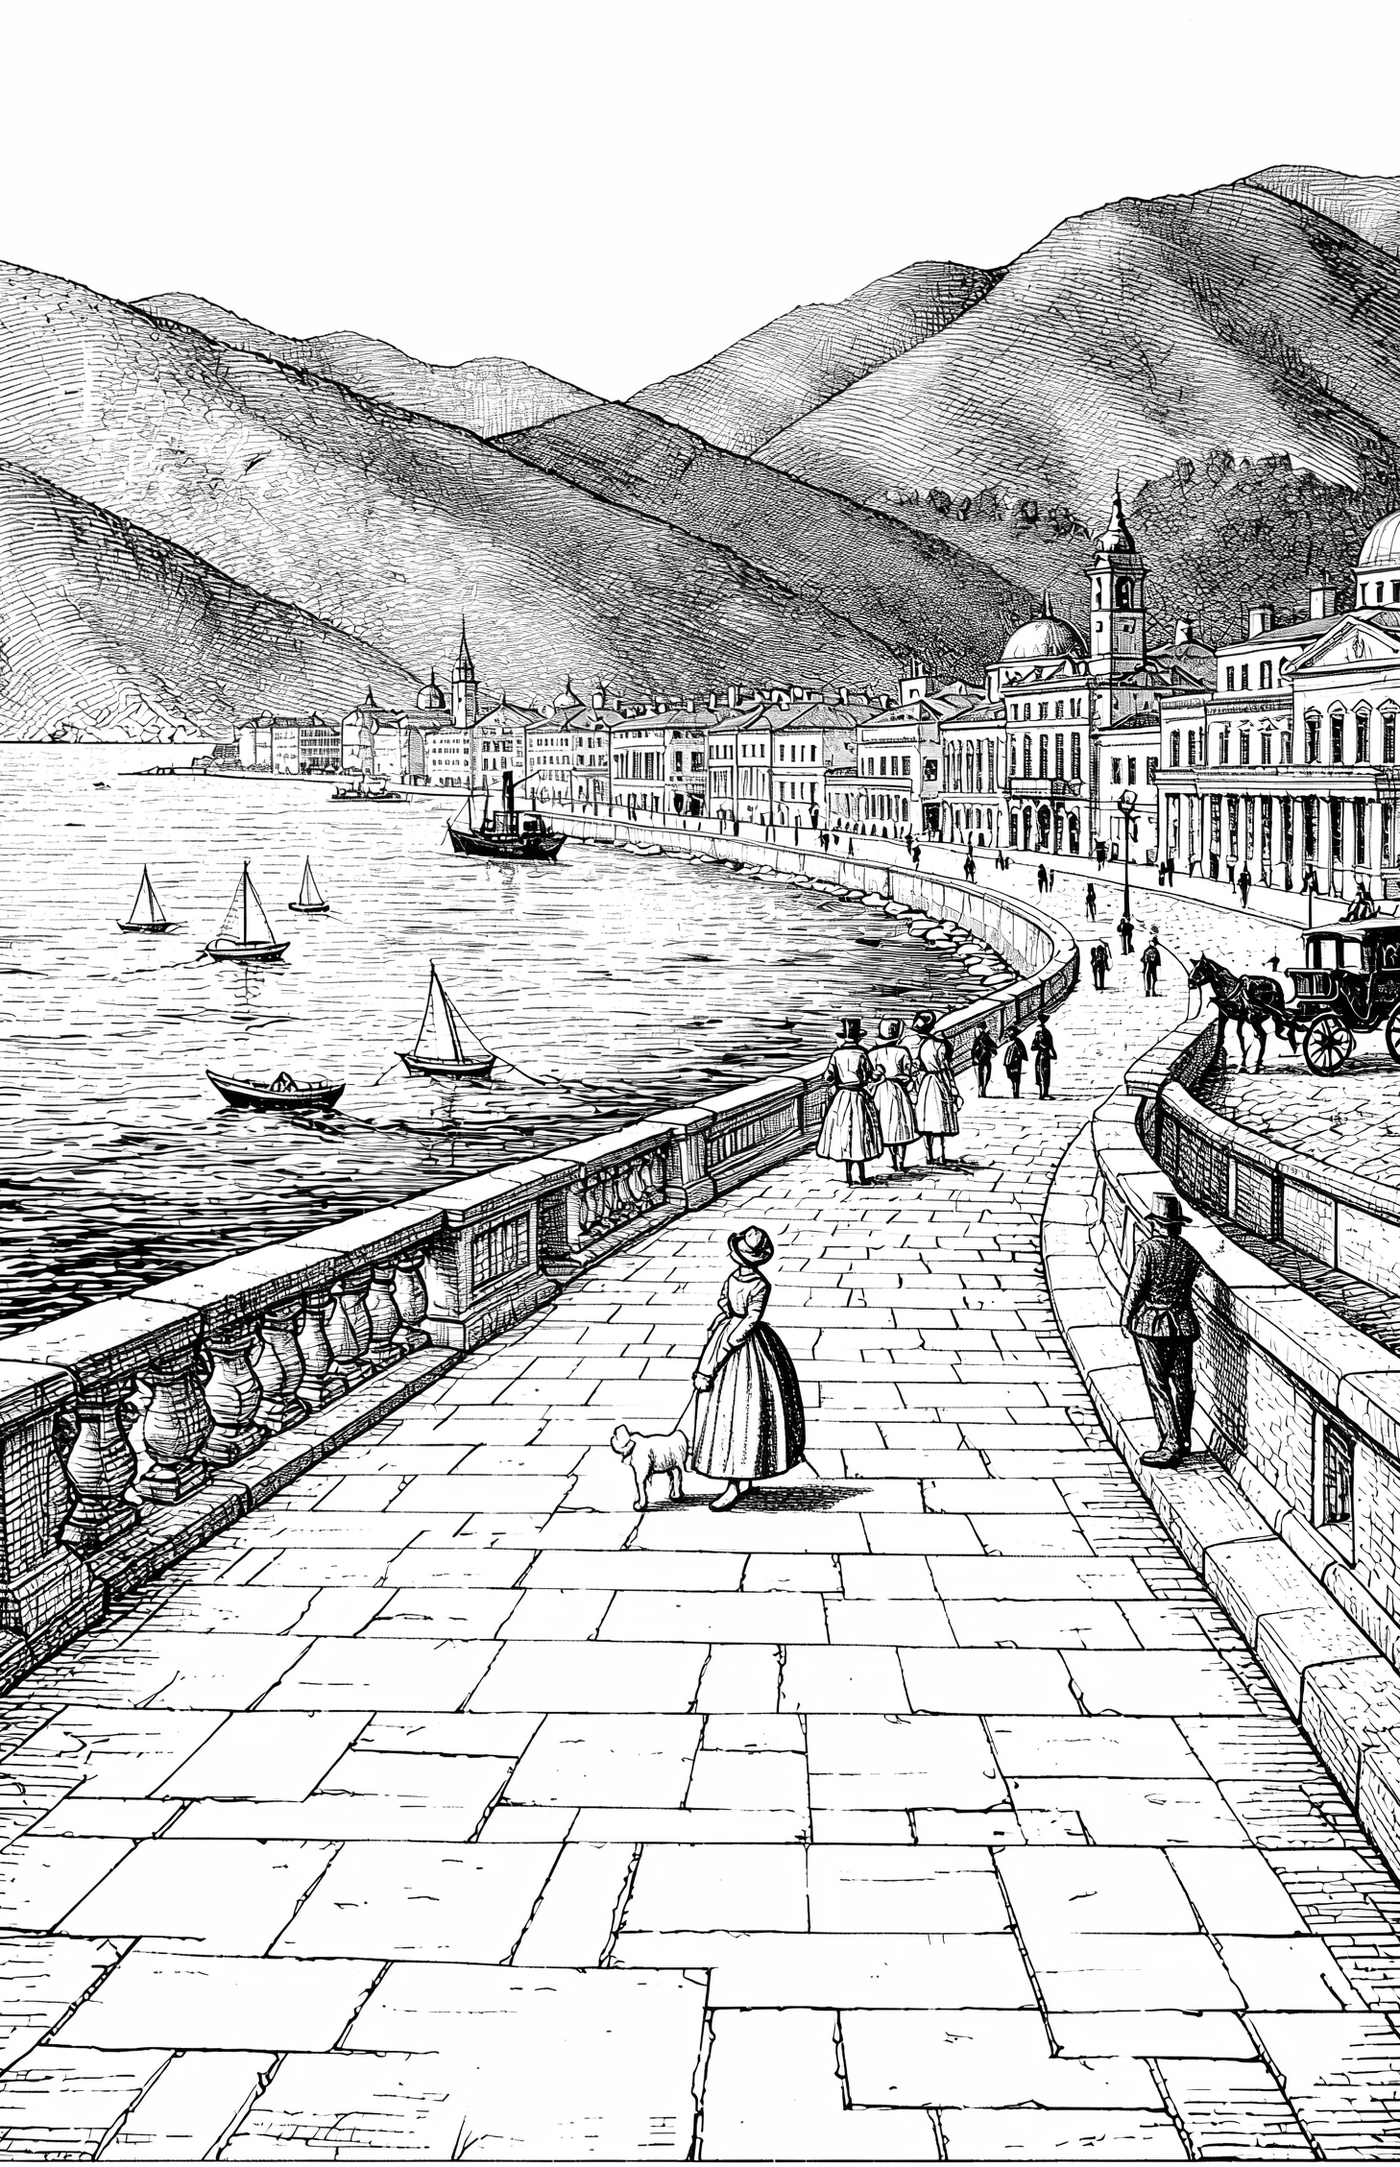
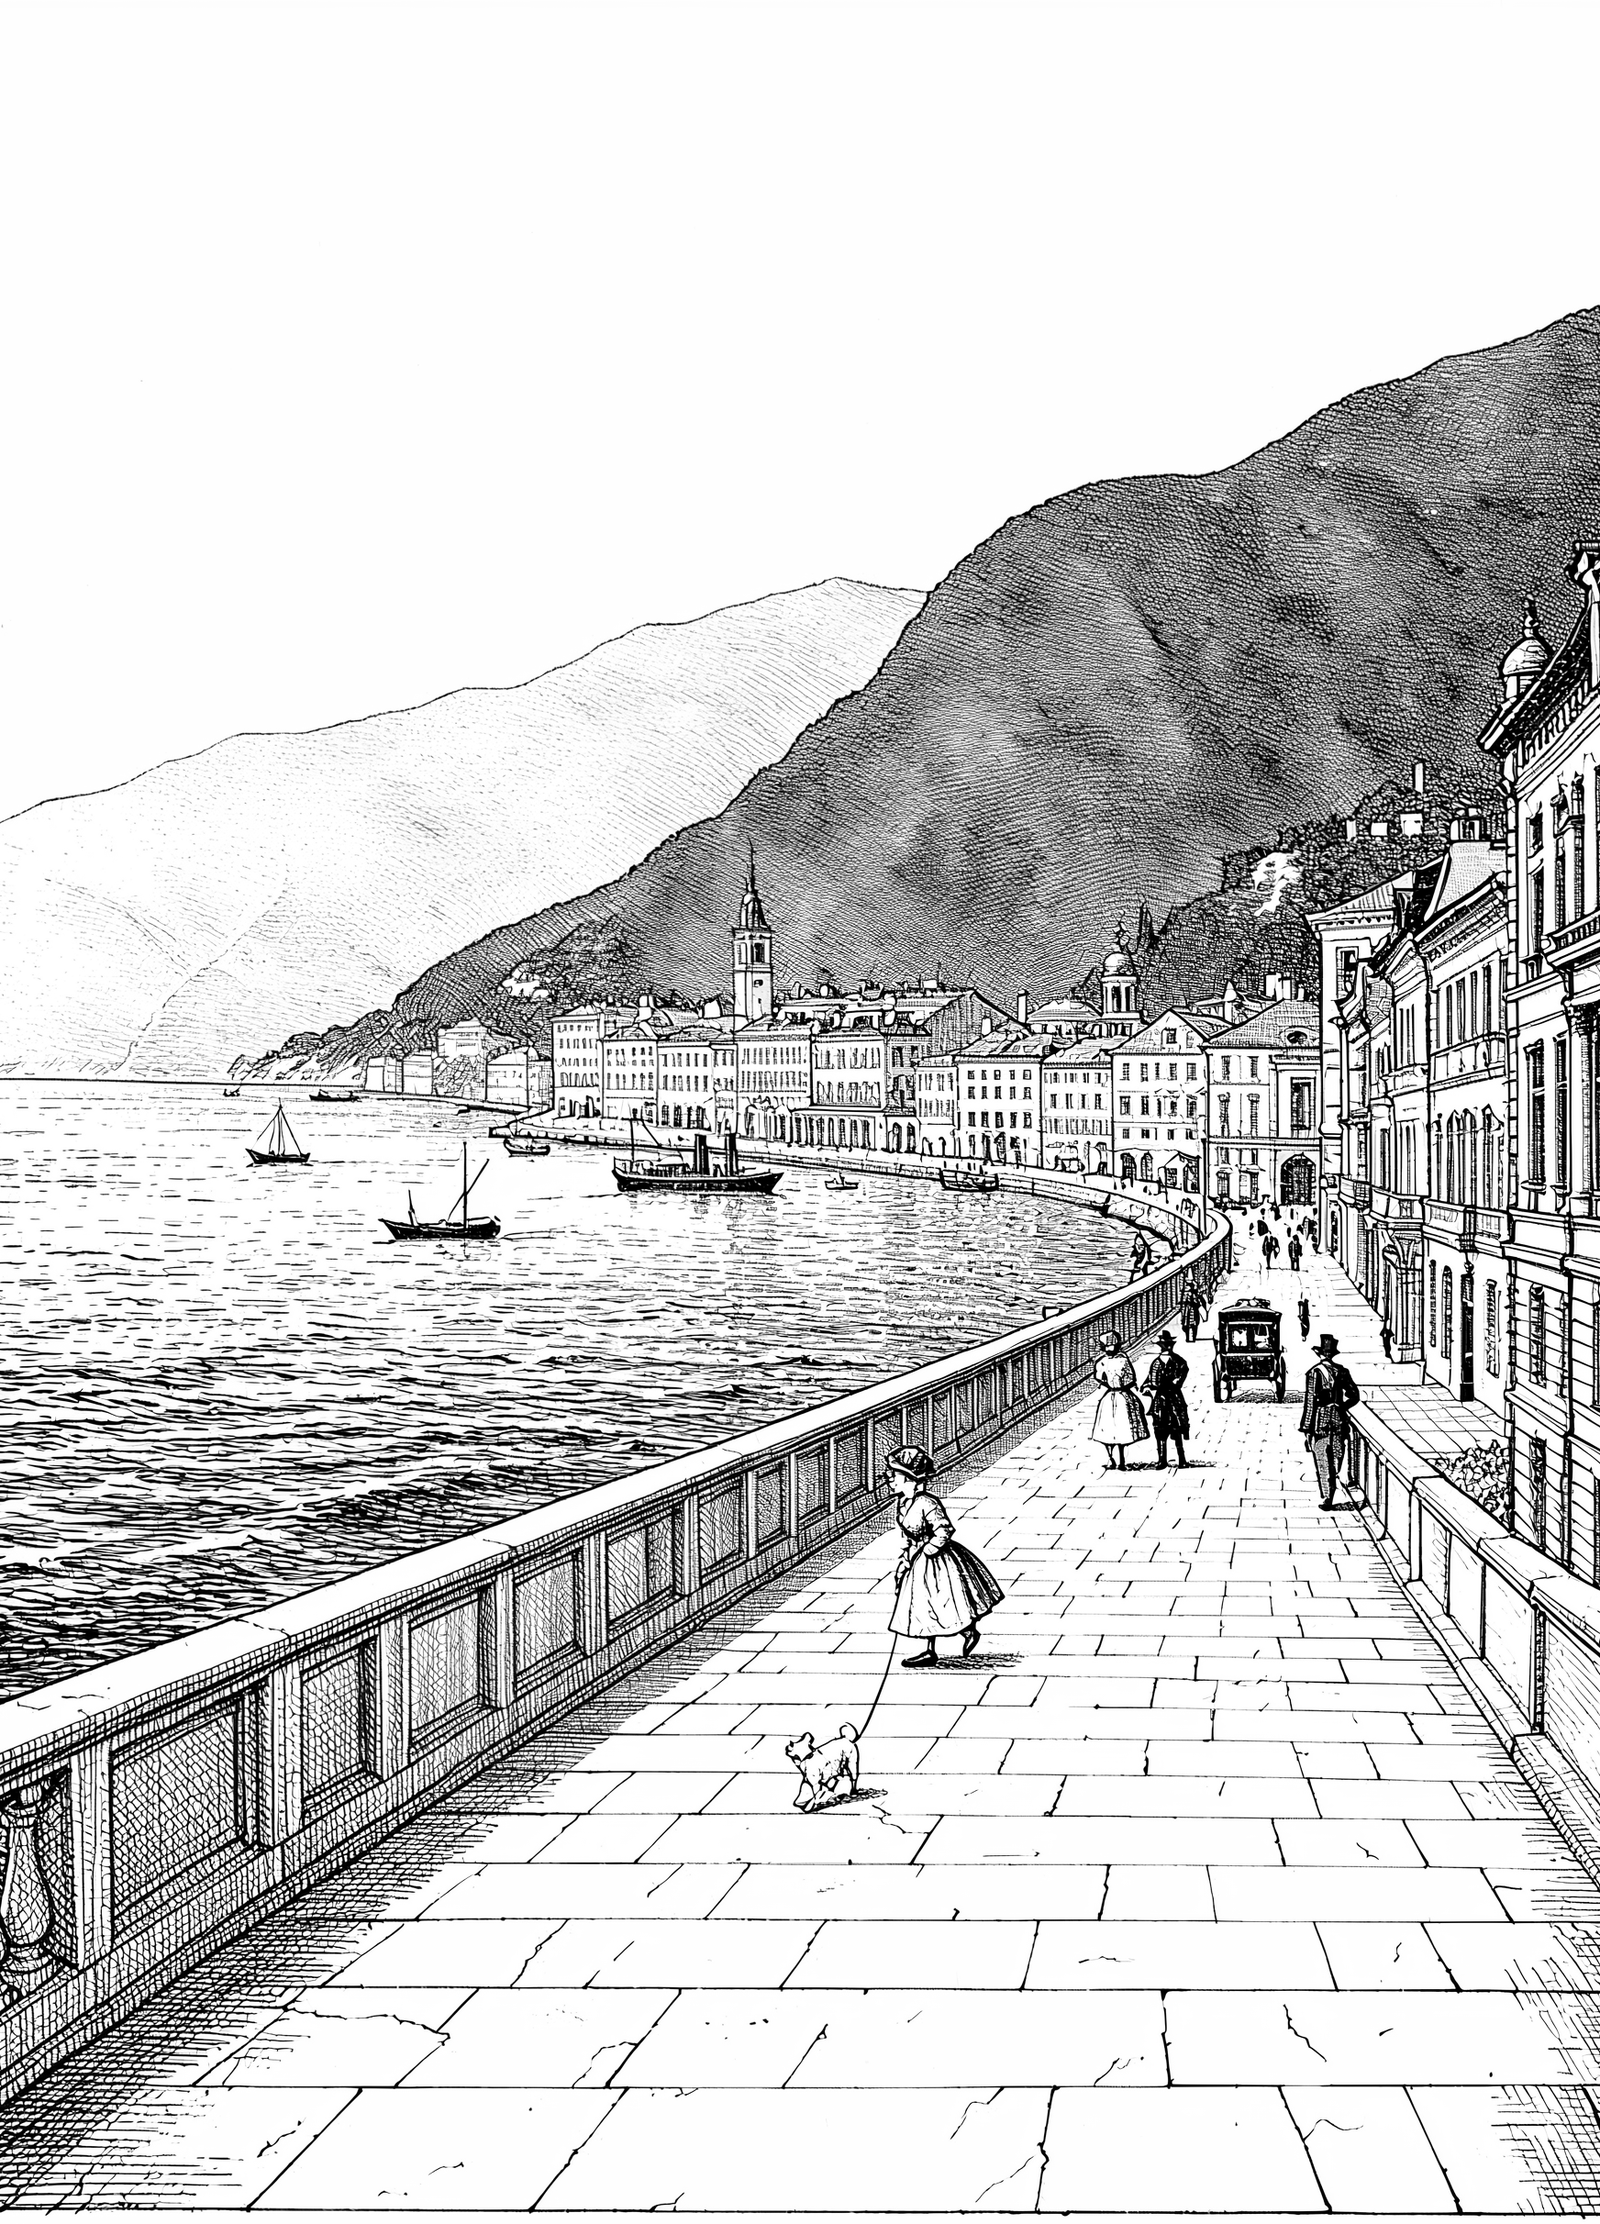
v0.0.150: the plate is the leaf, and the list stands centred
Folio vi carries nothing but its engraving now: the plate measure is the
leaf itself (212 x 270 mm), so the quay bleeds off the fore-edge, the fold
side and the foot, and the caption and folio that sat in the head band are
gone. The view was drawn for the leaf's shape (a 1024 x 1248 latent, seed
5104 of career_bk146_yalta10_*) - one white dog, on a lead the lady holds,
her whole height a ninth of the plate, empty paving across the foreground -
and tasks/scripts/150-page-plate.py cuts the file deliberately taller than
the leaf so the page's cover takes the sky and the empty paving and not the
drawing's flanks. Measured off the leaf drawn back from its own canvas at
8 px per mm: ink 0.0 mm from the fore-edge, 0.1 mm from the fold side,
0.1 mm from the foot.

Folio vii's column moves from [62, 192] to [41, 171] - centred on the leaf,
41 mm of paper either side - and its folio moves out of the corner to the
middle of the foot.

diff --git a/js/bookpages.js b/js/bookpages.js
@@ -1,8 +1,8 @@
 // The book's pages (js/book.js): each drawn on its own canvas, the way a page of the 1830s was printed - Bodoni Moda
 // (vendor/bodoni-moda) in a warm black ink on the cream paper of the book's own tile, a red ink for
 // the line the cursor is on. The right page lists the places to travel to, grouped, each with how far it lies in
-// versts from where the walker stands; the left page, the plate leaf, its drawing and its name. The line under the
-// printer's hand is red on either page.
+// versts from where the walker stands, the whole list centred on its leaf; the left page, the plate leaf, its drawing
+// and nothing else - the plate is the leaf. The line under the printer's hand is red.
 // A page is measured in millimetres from its top left as the reader sees it, the leaf's own size (PAGE); its canvas
 // is drawn at whatever size the look needs (book.js: finer for the full look, coarse and heavier for a picture of
 // 240 lines or fewer, where the small lines under each place are left out). Every line that can be chosen is kept with
@@ -10,13 +10,17 @@
 export const PAGE = { w: 212, h: 270 };
 // (the text block: the left page's inner margin and the right's are over the fold, where 43 mm of the leaf dives into
 // the gutter - book_geom.py)
-const BLOCK = { verso: [20, 150], recto: [62, 192], top: 22, bottom: 248 };
-// (the plate measure on the left leaf: the drawing's own field, and it bleeds. It runs to 0 at the fore-edge and to the
-//  foot trim, and stops 3 mm short of where the leaf dives into the fold (PAGE.w - 43 = 169) because a press cannot
-//  print into the gutter and the binding swallows what tries. 166 x 257 mm against the plate's 2:3 costs the drawing
-//  5 mm of width and nothing at all of its height, so the quay, the town frontage and the ridges all stay whole. The
-//  name and the folio therefore stand in the head band above it - a plate that bleeds has no margin beneath it)
-const PLATE = { x: 0, y: 13, w: 166, h: 257 };
+const BLOCK = { verso: [20, 150], recto: [41, 171], top: 22, bottom: 248 };
+// (the right page's column is CENTRED on the leaf: 130 mm of a 212 mm page, 41 mm of paper either side. It used to
+//  stand at [62, 192], which packed every line of the list against the outer edge and left the half of the leaf near
+//  the fold empty - the whole page reads as a plate facing a centred table now. The running head, the title, the group
+//  names and the folio are all drawn on this column's middle, so they stand on the leaf's own middle)
+// (the plate measure on the left leaf IS the leaf: 212 x 270 mm, fore-edge to fold and head to foot, with nothing
+//  printed over it - no name, no folio, no head band. An 1830s plate on its own leaf carries its caption on the
+//  facing page or in the frontispiece lettering, not across the view, and this leaf has no facing margin left to hold
+//  one either. What runs into the fold is taken by the binding, as a real plate's margin is; plate.png is cut to this
+//  shape, so the cover draw below costs the drawing nothing)
+const PLATE = { x: 0, y: 0, w: PAGE.w, h: PAGE.h };
 export const INK = '#211b17', RED = '#a8291f';
 const FAMILY = 'BookBodoni', FALLBACK = 'Georgia, "Times New Roman", serif';
 let fontsIn = false;
@@ -111,7 +115,7 @@ export function drawPlaces(g, W, H, data, { tile = null, coarse = false } = {}) 
   const k = W / PAGE.w, side = 'recto', [x0, x1] = BLOCK[side].map((v) => v * k), boxes = [];
   paper(g, W, H, tile, k);
   g.textBaseline = 'alphabetic';
-  runningHead(g, k, side, 'Places', 'vii', coarse);
+  runningHead(g, k, side, 'Places', '', coarse);      // (no folio in the corner: it stands centred at the foot below)
   let y = title(g, k, side, 'Places', 'and how far each lies from where you stand', BLOCK.top + 18, coarse) + (coarse ? 8 : 9);
   g.fillStyle = INK; g.font = face((coarse ? 4.6 : 3.6) * k, { italic: true, weight: coarse ? 600 : 400 }); g.textAlign = 'right';
   g.fillText('Versts', x1, y * k); g.textAlign = 'left';
@@ -142,26 +146,29 @@ export function drawPlaces(g, W, H, data, { tile = null, coarse = false } = {}) 
     }
     boxes.push({ id: p.id, box: [BLOCK[side][0] - 2, top - 1.2, BLOCK[side][1] + 2, y + 1.8] });
   }
+  // (the folio on the leaf's own middle, at the foot: everything on this page stands on the centre line)
+  g.fillStyle = INK; g.textAlign = 'center';
+  g.font = face((coarse ? 5.2 : 3.8) * k, { weight: coarse ? 700 : 400 });
+  g.fillText('vii', (PAGE.w / 2) * k, (BLOCK.bottom + 9) * k);
+  g.textAlign = 'left';
   return boxes;
 }
 
 /** The left page: the plate leaf. data: { vignette, plate }. Returns no boxes: nothing on the leaf is a control. */
 export function drawGraphics(g, W, H, data, { tile = null, coarse = false } = {}) {
-  // (the plate leaf, as an 1830s book carries a plate on its own leaf - and this one bleeds: the drawing runs over the
-  //  whole of its measure off the fore-edge and the foot, with its name and its folio in the band above. No running
-  //  head, no title, no sentence)
+  // (the plate leaf, and the plate IS the leaf: the drawing covers the whole of it, fore-edge to fold and head to foot,
+  //  with nothing printed over it - no name, no folio, no head band, no running head, no title, no sentence)
   const k = W / PAGE.w;                                   // (mm on the page -> device pixels)
   paper(g, W, H, tile, k);
   g.textBaseline = 'alphabetic';
   const im = data.plate || data.vignette;
   const plate = !!im && im === data.plate;
-  const name = plate ? 'Yalta, the quay.' : 'The road and the verst post.';
-  const cap = (coarse ? 5.6 : 4.6) * k;
   if (im && im.width) {
-    // (the plate covers the plate measure. Cover means: scale the drawing until it fills the measure both ways, and cut
-    //  the overhang off the longer sides - which is nothing at all when the drawing is cut to the measure's own shape,
-    //  as plate.png is. The woodcut tailpiece is a small picture and not a plate, so it keeps all of itself and is
-    //  centred in the measure instead. Both multiplied in, so the paper's grain and warm white come through the ink)
+    // (the plate covers the leaf. Cover means: scale the drawing until it fills the measure both ways, and cut
+    //  the overhang off the longer sides - which is nothing at all when the drawing is cut to the leaf's own shape, as
+    //  plate.png is. The woodcut tailpiece is a small picture and not a plate, so it keeps all of itself and is
+    //  centred on the leaf instead - the leaf cannot sit broken. Both multiplied in, so the paper's grain and warm
+    //  white come through the ink)
     const bx = PLATE.x * k, by = PLATE.y * k, bw = PLATE.w * k, bh = PLATE.h * k;
     const a = im.width / im.height, ab = PLATE.w / PLATE.h;
     let sx = 0, sy = 0, sw = im.width, sh = im.height, dx = bx, dy = by, dw = bw, dh = bh;
@@ -171,16 +178,6 @@ export function drawGraphics(g, W, H, data, { tile = null, coarse = false } = {}
     } else if (a > ab) { dh = bw / a; dy = by + (bh - dh) / 2; }
     else { dw = bh * a; dx = bx + (bw - dw) / 2; }
     g.save(); g.globalCompositeOperation = 'multiply'; g.drawImage(im, sx, sy, sw, sh, dx, dy, dw, dh); g.restore();
-    // (its name in the head band above it - a plate that bleeds has no margin below it to hold one. mm on the page:
-    //  fillText wants device pixels, so the height goes through k like everything else here)
-    g.fillStyle = INK; g.font = face(cap, { italic: true }); g.textAlign = 'center';
-    g.fillText(name, bx + bw / 2, (PLATE.y - 5) * k);
-    // (and the folio at the outend of the same band, where a plate leaf carries its number)
-    g.font = face((coarse ? 5.2 : 3.8) * k, { weight: coarse ? 700 : 400 }); g.textAlign = 'left';
-    g.fillText('vi', 8 * k, (PLATE.y - 5.4) * k);
-  } else {
-    g.fillStyle = INK; g.font = face((coarse ? 5.2 : 3.8) * k, { weight: coarse ? 700 : 400 });
-    g.fillText('vi', 8 * k, (PLATE.y - 5.4) * k);
   }
   return [];                                          // (no line of this page is a control: nothing under the hand to pick)
 }
